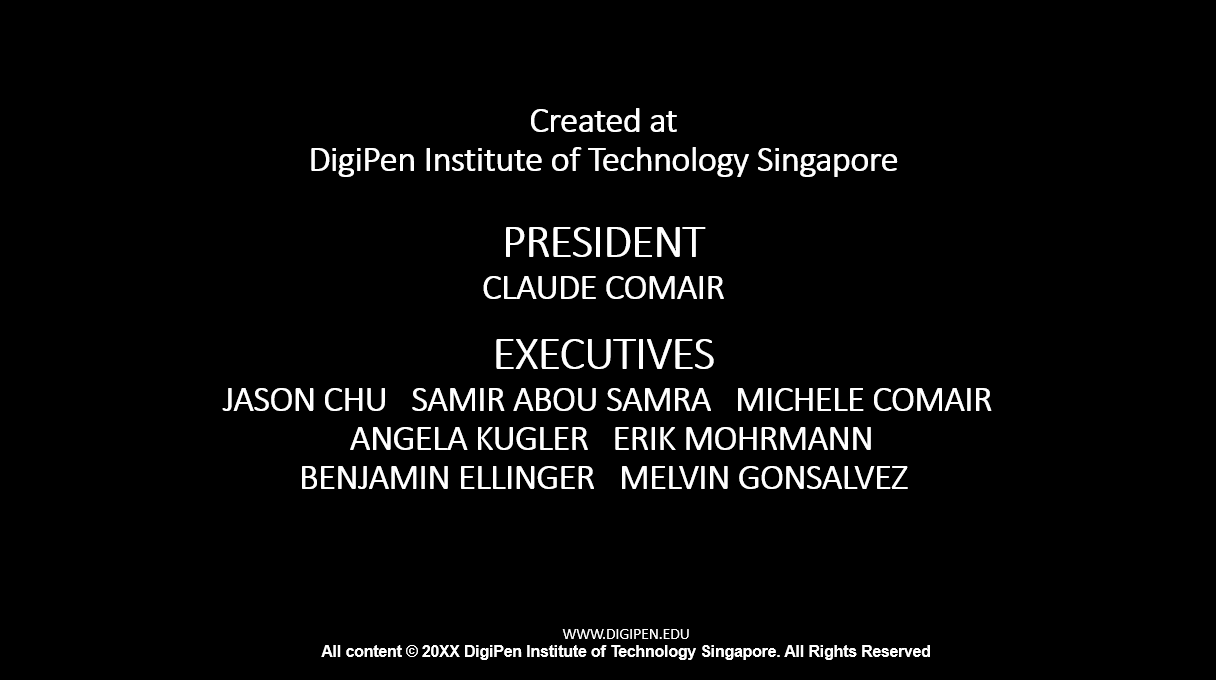
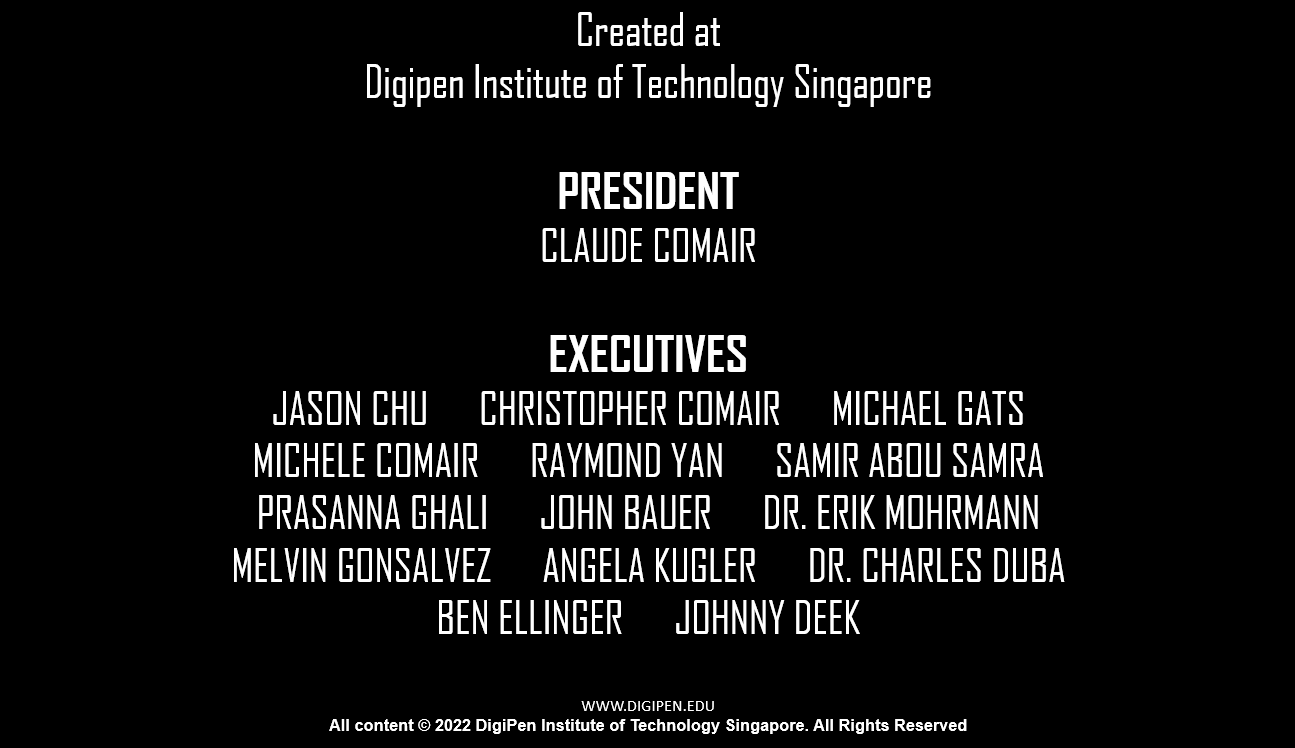
Fixed credits warning and updated credits screens

Changed region(s): [[0.1562, 0.0926, 0.8438, 0.8647], [0.25, 0.9265, 0.75, 0.9882], [0.4375, 0.0, 0.5625, 0.0618]]

diff --git a/Src/credits.c b/Src/credits.c
@@ -3,7 +3,8 @@
 
 CP_Image TeamName;
 CP_Image DigipenExec;
-int transparencyTeam, transparency;
+CP_Image CreditsThanks;
+int transparency1, transparency2, transparency3;
 float totalElapsedTime, totalElapsedTime_sec;
 
 void Credits_Init(void)
@@ -11,11 +12,11 @@ void Credits_Init(void)
 	CP_Settings_ImageMode(CP_POSITION_CENTER);
 	TeamName = CP_Image_Load("./Assets/team_name.png");
 	DigipenExec = CP_Image_Load("./Assets/digipenexec.png");
+	CreditsThanks = CP_Image_Load("./Assets/credits_thanks.png");
 
 	totalElapsedTime = 0.0f;
 	totalElapsedTime_sec = 0.0f;
-	transparencyTeam = 0;
-	transparency = 0;
+	transparency1 = 0, transparency2 = 0, transparency3 = 0;
 }
 
 void Credits_Update(void)
@@ -25,32 +26,57 @@ void Credits_Update(void)
 	totalElapsedTime += currentElapsedTime;
 	totalElapsedTime_sec += currentElapsedTime;
 
-	if (totalElapsedTime < 8.0f)
+	if (totalElapsedTime < 6.0f)
 	{
-		CP_Image_Draw(TeamName, CP_System_GetWindowWidth() / 2.0, CP_System_GetWindowHeight() / 2.0, CP_Image_GetWidth(TeamName), CP_Image_GetHeight(TeamName), transparencyTeam);
-		if (transparencyTeam < 255)
+		CP_Image_Draw(TeamName, CP_System_GetWindowWidth() / 2.0f, CP_System_GetWindowHeight() / 2.0f, (float)CP_Image_GetWidth(TeamName), (float)CP_Image_GetHeight(TeamName), transparency1);
+		if (transparency1 < 255)
 		{
-			transparencyTeam = (totalElapsedTime_sec / 4) * 255;
+			transparency1 = (int)((totalElapsedTime_sec / 4) * 255);
 		}
 	}
 
-	if (totalElapsedTime >= 8.0f)
+	if (totalElapsedTime >= 6.0f && totalElapsedTime < 12.0f)
 	{
-		if (transparencyTeam >= 255)
+		if (transparency1 >= 255)
 		{
 			totalElapsedTime_sec = 0.0f;
-			transparencyTeam = 0;
+			transparency1 = 0;
 		}
+
 		CP_Graphics_ClearBackground(CP_Color_Create(0, 0, 0, 0));
-		CP_Image_Draw(DigipenExec, CP_System_GetWindowWidth() / 2.0, CP_System_GetWindowHeight() / 2.0, CP_Image_GetWidth(DigipenExec), CP_Image_GetHeight(DigipenExec), transparency);
-		if (transparency < 255)
+		CP_Image_Draw(CreditsThanks, CP_System_GetWindowWidth() / 2.0f, CP_System_GetWindowHeight() / 2.0f, (float)CP_Image_GetWidth(CreditsThanks), (float)CP_Image_GetHeight(CreditsThanks), transparency2);
+		if (transparency2 < 255)
 		{
-			transparency = (totalElapsedTime_sec / 4) * 255;
+			transparency2 = (int)((totalElapsedTime_sec / 4) * 255);
 		}
 	}
 
-	if (totalElapsedTime >= 14.0f)
+	if (totalElapsedTime >= 12.0f && totalElapsedTime < 18.0f)
 	{
+		if (transparency2 >= 255)
+		{
+			totalElapsedTime_sec = 0.0f;
+			transparency2 = 0;
+		}
+
+		CP_Graphics_ClearBackground(CP_Color_Create(0, 0, 0, 0));
+		CP_Image_Draw(DigipenExec, CP_System_GetWindowWidth() / 2.0f, CP_System_GetWindowHeight() / 2.0f, (float)CP_Image_GetWidth(DigipenExec), (float)CP_Image_GetHeight(DigipenExec), transparency3);
+		if (transparency3 < 255)
+		{
+			transparency3 = (int)((totalElapsedTime_sec / 4) * 255);
+		}
+	}
+
+	if (totalElapsedTime >= 18.0f)
+	{
+		CP_Engine_SetNextGameState(Main_Menu_Init, Main_Menu_Update, Main_Menu_Exit);
+	}
+
+
+	//////////////////////////////////////////////////////////////////////////////////////////////////////////////
+
+	// Exit to main menu if ESC key pressed
+	if (CP_Input_KeyTriggered(KEY_ESCAPE)) {
 		CP_Engine_SetNextGameState(Main_Menu_Init, Main_Menu_Update, Main_Menu_Exit);
 	}
 }
@@ -58,4 +84,6 @@ void Credits_Update(void)
 void Credits_Exit(void)
 {
 	CP_Image_Free(&TeamName);
+	CP_Image_Free(&DigipenExec);
+	CP_Image_Free(&CreditsThanks);
 }
